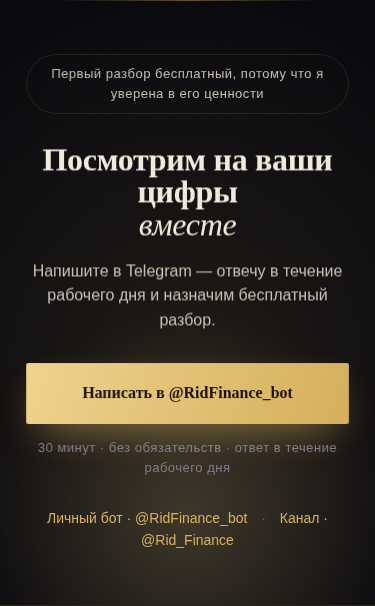
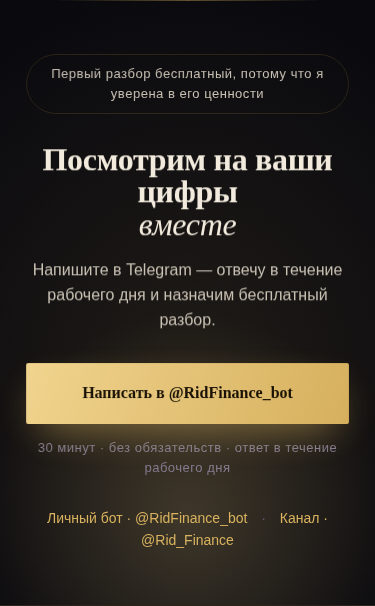
Clean residual near-dups, remove hero scroll hint
- pocket-note no longer repeats FAQ's 'ничего не нужно устанавливать'
- get-grid subtitles reworded so 'кассовые разрывы'/'кто должен…' live only on AI cards
- FAQ 'Это дорого?' no longer echoes tariffs pricing-by-diagnostics line
- FAQ 'есть бухгалтер' reframed to coexistence angle (no §how overlap)
- Remove hero 'прокрутите' scroll indicator (text, dash, CSS, keyframes, reduced-motion ref)
- Regenerate screenshots

diff --git a/index.html b/index.html
@@ -116,16 +116,6 @@
   .hp-ico{flex-shrink:0;color:var(--gold)}
   .hero .btn{min-width:300px}
   @media(max-width:380px){.hero .btn{min-width:0;width:100%}}
-  .scrolldown{margin-top:56px;font-size:11px;letter-spacing:.3em;color:var(--muted);
-    text-transform:uppercase}
-  .scrolldown span{display:block;width:1px;height:42px;margin:14px auto 0;
-    background:linear-gradient(var(--gold),transparent);animation:drop 2s ease-in-out infinite}
-  @keyframes drop{
-    0%{transform:scaleY(0);transform-origin:top}
-    50%{transform:scaleY(1);transform-origin:top}
-    50.1%{transform-origin:bottom}
-    100%{transform:scaleY(0);transform-origin:bottom}}
-
   /* ============ МАНИФЕСТ ============ */
   .manifesto p{font-family:'Playfair Display';font-size:clamp(26px,4.6vw,46px);font-weight:500;
     line-height:1.28;color:var(--muted-2);max-width:900px}
@@ -480,7 +470,7 @@
   @media(prefers-reduced-motion:reduce){
     #guide,.waker{display:none}
     .reveal{transition:opacity .4s !important;transform:none !important}
-    .g-body,.hero-glow,.scrolldown span,.type,
+    .g-body,.hero-glow,.type,
     .g-ant::after,.g-eye{animation:none !important}
   }
 </style>
@@ -529,7 +519,6 @@
     <a href="#core" class="btn">Пройти диагностику</a>
     <p class="micro">2 минуты · бесплатно · без заявки</p>
     <p class="hero-spec">Строительство · дорожная отрасль · производство · удалённо по всей России</p>
-    <div class="scrolldown" aria-hidden="true">прокрутите<span></span></div>
   </div>
 </section>
 
@@ -666,9 +655,9 @@
       Не отчёты раз в месяц, а рабочие инструменты под ваши зоны — каждый под рукой.
     </p>
     <div class="get-grid reveal" data-rv="up">
-      <div class="get"><b>Платёжный календарь</b><span>Кассовые разрывы видно за недели</span></div>
+      <div class="get"><b>Платёжный календарь</b><span>Кто и когда платит — на недели вперёд</span></div>
       <div class="get"><b>ДДС и P&amp;L</b><span>Куда уходят деньги и сколько вы зарабатываете</span></div>
-      <div class="get"><b>Контроль дебиторки</b><span>Кто должен, сколько и где риск просрочки</span></div>
+      <div class="get"><b>Контроль дебиторки</b><span>Сроки оплат и системная работа с долгами</span></div>
       <div class="get"><b>Юнит-экономика</b><span>Что кормит бизнес, а что тянет вниз</span></div>
       <div class="get"><b>Финансовый дашборд</b><span>Все ключевые цифры на одном экране</span></div>
       <div class="get"><b>Бюджет и план-факт</b><span>Цель в цифрах и контроль отклонений</span></div>
@@ -712,8 +701,8 @@
       <div class="scn"><b>Утром с кофе</b><span>один экран: деньги, долги, платежи.</span></div>
     </div>
     <p class="pocket-note reveal" data-rv="up">
-      <b>Ничего не нужно устанавливать</b> — это ключевые цифры под вашу задачу,
-      мой инструмент как финдиректора, а не отдельный IT-сервис.
+      Это ключевые цифры под вашу задачу — <b>мой инструмент как финдиректора</b>,
+      а не отдельный IT-сервис.
     </p>
   </div>
 </section>
@@ -869,9 +858,9 @@
       <div class="faq">
         <button class="faq-q" aria-expanded="false">
           <span>Это дорого?</span><i aria-hidden="true">+</i></button>
-        <div class="faq-a">Первый разбор бесплатный — посмотрите цифры и решите сами.
-          Точную стоимость я называю по итогам диагностики: есть постоянное партнёрство и
-          разовый проект «система под ключ». Дальше зависит от объёма работы и состояния учёта.</div>
+        <div class="faq-a">Первый разбор бесплатный — сначала видите цифры, потом решаете.
+          Форматов два: постоянное партнёрство и разовый проект «система под ключ». Платите
+          за результат и порядок в финансах, а не за присутствие сотрудника в штате.</div>
       </div>
       <div class="faq">
         <button class="faq-q" aria-expanded="false">
@@ -882,9 +871,9 @@
       <div class="faq">
         <button class="faq-q" aria-expanded="false">
           <span>У меня есть бухгалтер — зачем финдир?</span><i aria-hidden="true">+</i></button>
-        <div class="faq-a">Бухгалтер закрывает налоги и отчётность для государства — и хорошо,
-          если вы справлялись с этим сами. Как финдиректор я отвечаю за другое: прибыль, деньги
-          и решения вперёд. Я усиливаю бухгалтера, а не заменяю.</div>
+        <div class="faq-a">Это разные роли. Бухгалтер остаётся на своём месте — я не заменяю его,
+          а подключаюсь сверху как финдиректор и работаю с ним в связке. Вы получаете не вторую
+          бухгалтерию, а взгляд на бизнес целиком.</div>
       </div>
       <div class="faq">
         <button class="faq-q" aria-expanded="false">
